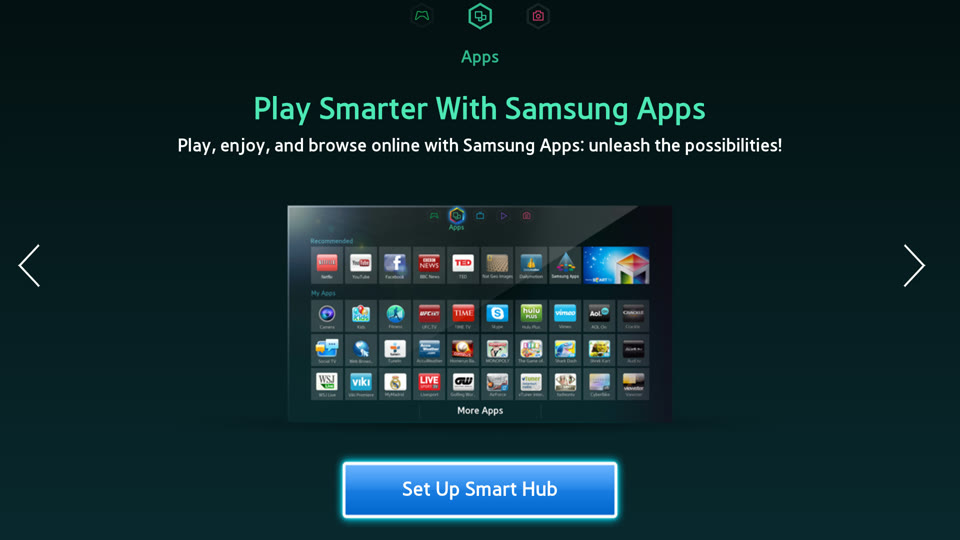
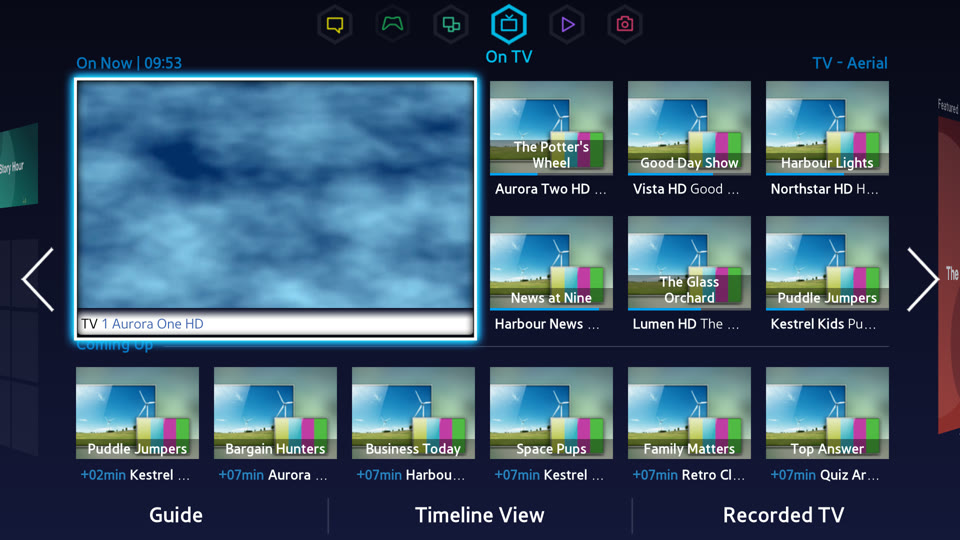
README for the online TVs; lobby thumbnails of the online Smart Hubs

diff --git a/README.md b/README.md
@@ -4,6 +4,12 @@ Working 1:1 recreations of Samsung TV interfaces, each rebuilt from its own firm
 browser. Every exhibit mocks the TV's hardware (a tuner with a fictional channel lineup, HDMI devices,
 volume, power) so the whole interface can be used with the on-screen remote or the keyboard.
 
+Both TVs start online, on the fictional Wi-Fi network "Harbour View", with the Smart Hub terms agreed.
+What the real TVs would get from Samsung's servers (apps, films and shows, games, promotions, legal
+texts) is stubbed from one fictional catalogue (`src/shared/fictional.ts`) with generated placeholder
+artwork; apps the firmware cannot run open a placeholder screen. First-time setup walks through
+connecting and agreeing from a factory state.
+
 **Live:** https://jacksondam.com/tizen-os-tv-web/
 
 | Exhibit | Page | Firmware |
@@ -61,14 +67,24 @@ channel scan n times faster. State is kept in the browser's local storage, separ
 
 - **Power and boot** (`src/f2013/screens/setup`): every power-on shows the boot loader's "SMART TV" logo
   and five hexagons, then the TV's start-up wait. POWER toggles standby.
-- **Plug & Play**: the welcome movie, Language, Configure your TV (country, channel source, network
-  type), Auto Tuning with a mocked scan and Setup complete!, with the firmware's setup music. Without a
-  network the Smart Hub terms are never agreed, so setup ends on live TV, as on the real set. It runs
-  after a factory reset or with `?setup=1`.
-- **Smart Hub** (`src/f2013/screens/smarthub`): what a TV that has never been online shows. The firmware
-  falls back to a default panel list per country (UK: Games, Apps, Photos Videos & Music) on its 3D
-  carousel, with the panel-move sound, the top menu and side arrows; each panel offers Set Up Smart Hub,
-  which leads to the Welcome page and Network Settings.
+- **Plug & Play**: the welcome movie, Language, Configure your TV (country, channel source, Wi-Fi network
+  with the 2013 on-screen keyboard), Auto Tuning with a mocked scan, the Smart Hub terms, Software
+  Update and Setup complete!, with the firmware's setup music; OK opens the Smart Hub. Skipping the
+  network leaves the TV offline and setup ends on live TV, as on the real set. `?setup=1` starts it
+  from the factory state; a factory reset keeps the network and Smart Hub data, as its message says.
+- **Network** (`src/f2013/screens/net`, Menu > Network): Network Settings lists the fictional networks
+  and connects through the TV's own steps and keyboard (any password of 8 or more characters); Network
+  Status shows the connection, with Disconnect. Samsung account sign-in runs a Smart Hub widget that
+  is not in the firmware update, so it opens the placeholder and the TV stays signed out.
+- **Smart Hub** (`src/f2013/screens/smarthub`): online, the 3D carousel of Social, Games, Apps, On TV,
+  Films and TV Shows and Photos Videos & Music (the list comes from the server; this order follows UK
+  footage), with the top menu, side arrows, the bottom sub menu and the minimize motion when an item
+  runs. On TV shows the live picture and recommendations from the programme guide; Films and TV Shows
+  has categories, info pages and the player; Photos Videos & Music has the server's Most Popular feed
+  and a USB stick in its content browser; Apps has Recommended, My Apps, More Apps (sort, lock, delete)
+  and mocked installs; Games opens Game Hub; Social shows the no-accounts state. Offline or without the
+  terms each panel shows the firmware's Set Up Smart Hub page, which leads to the Smart Hub's own setup
+  (Welcome, Network Settings, terms).
 - **Menu** (`src/f2013/screens/menu`): Picture, Sound, Broadcasting, Network, Smart Features, System and
   Support with their icon animations and help images; 208 items taken from the firmware's menu code for a
   UK DVB-T/T2 set, with popups, sliders, PIN, message boxes and timers. Picture settings tint the live
